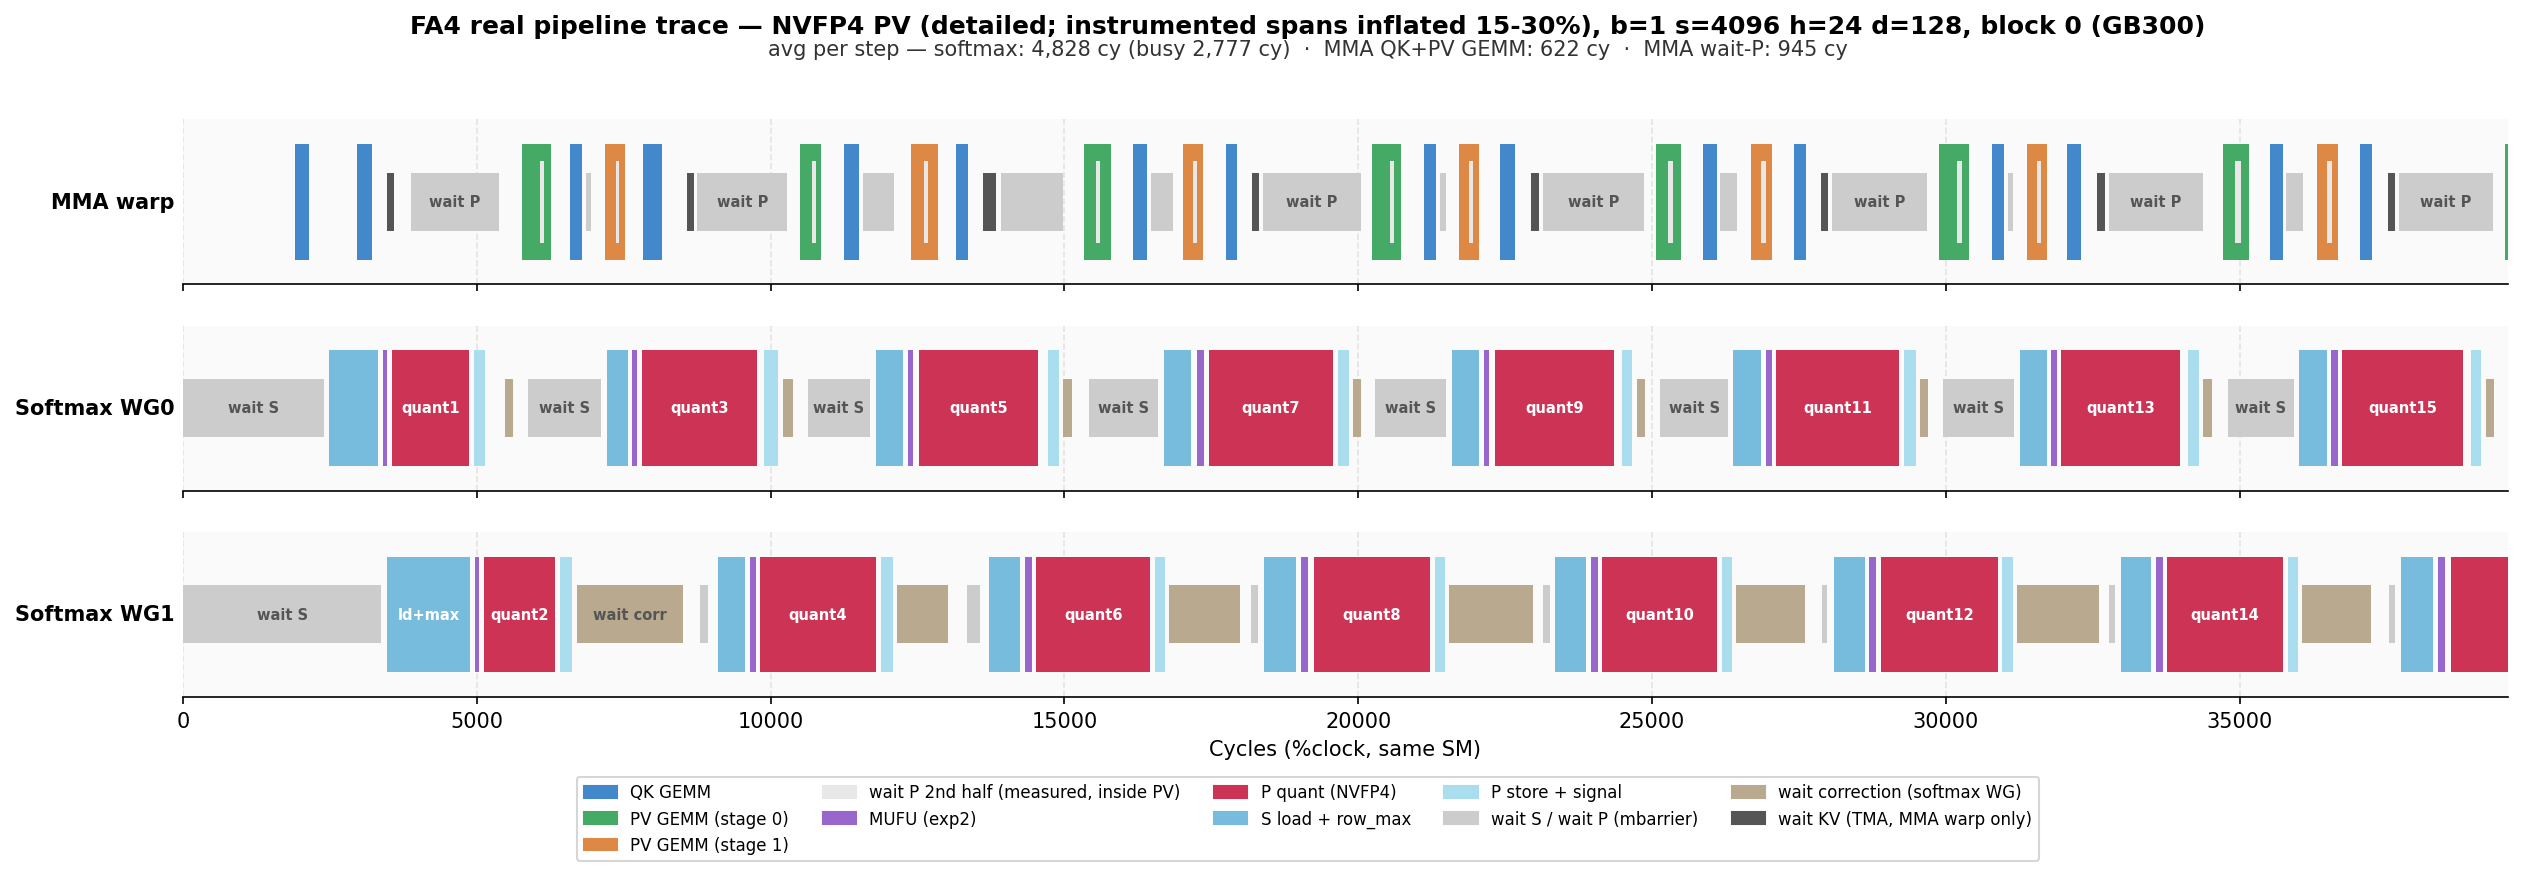
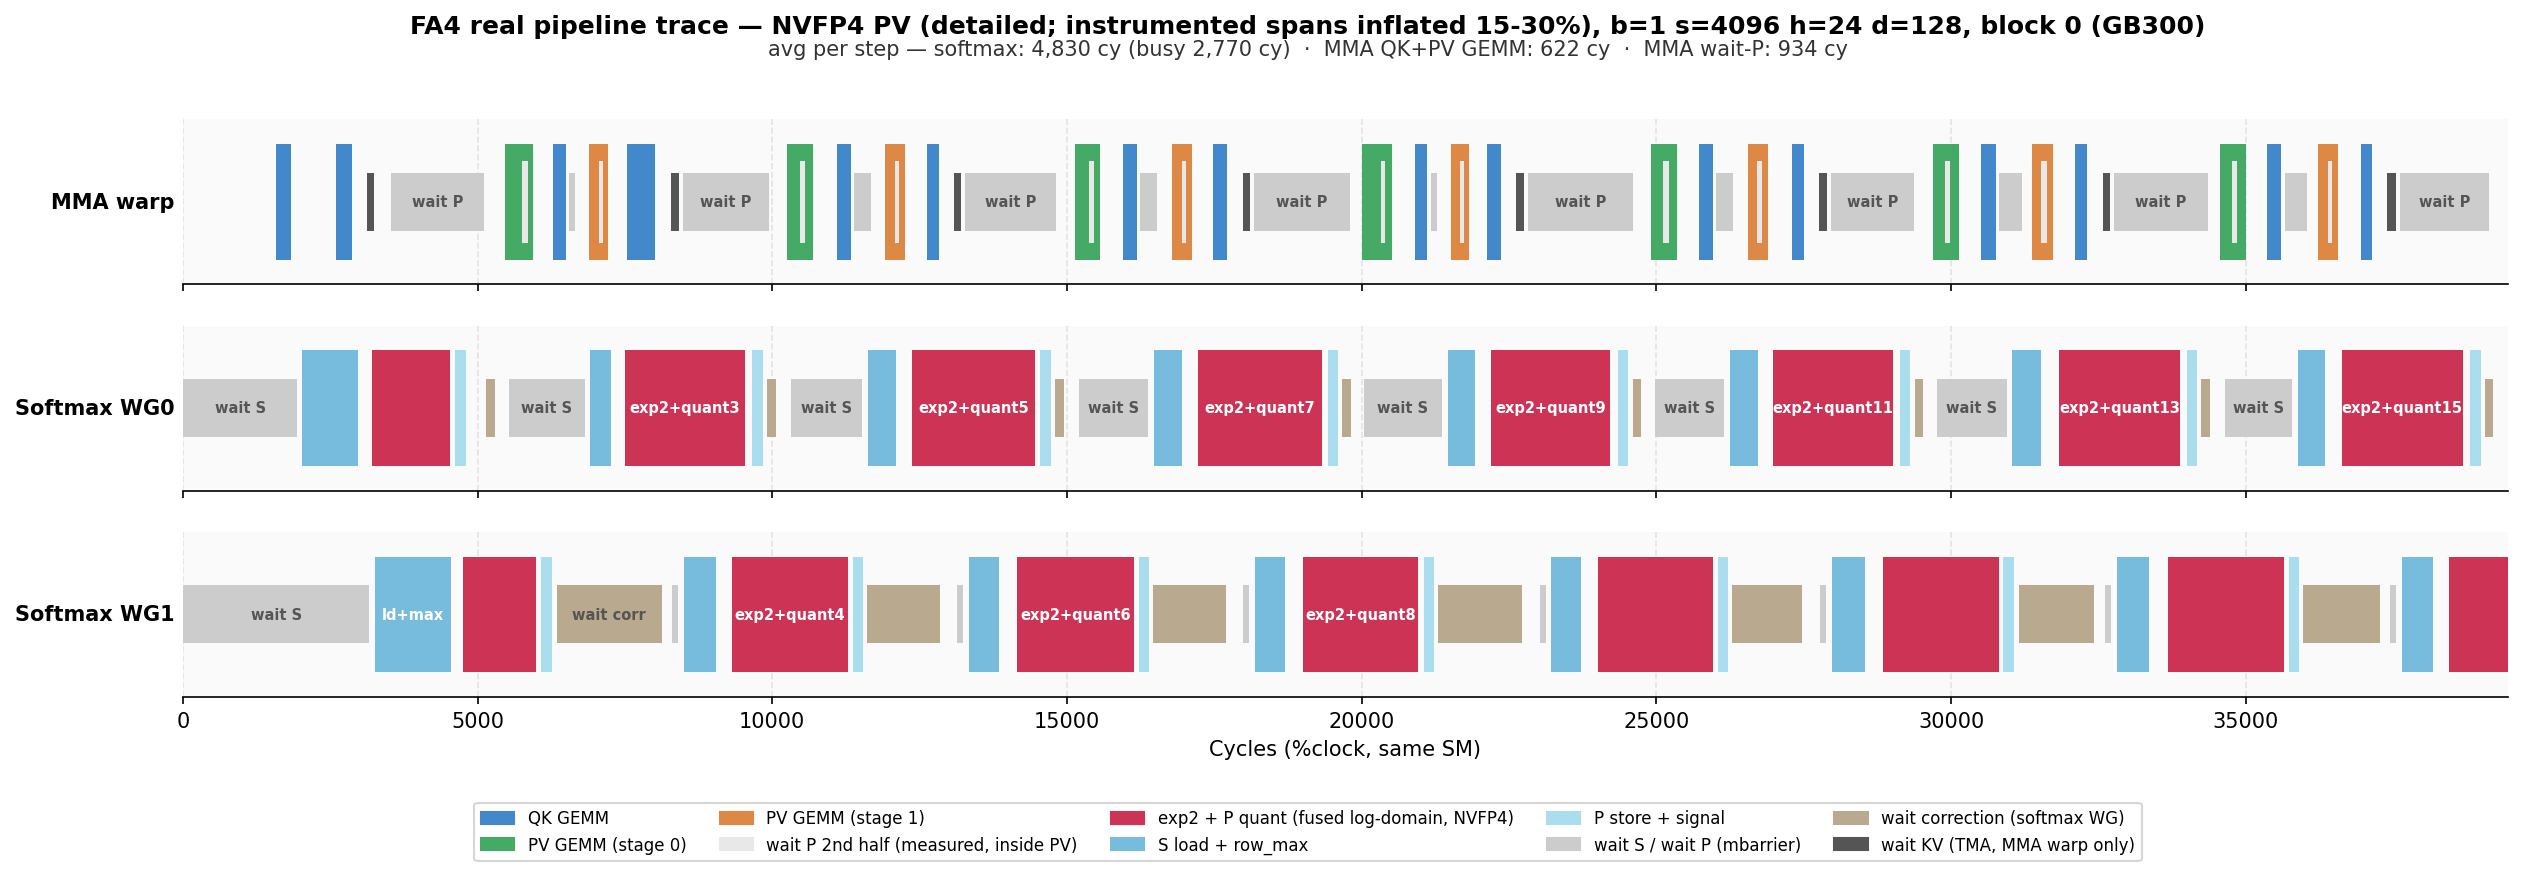
docs: fuse exp2+quant into one span for NVFP4/MXFP8 detailed traces
The log-domain path fuses exp2 into the per-group quant loop, so the
detailed EXP span was empty instrumentation noise sitting next to a quant
block that already contained the exp2 time. Drop the empty span and show
one honest "exp2 + P quant (fused log-domain)" span; note this in the doc.

diff --git a/flash_attn/cute/debug/trace_pipeline.py b/flash_attn/cute/debug/trace_pipeline.py
@@ -153,8 +153,16 @@ def render(spans_by_bg, block, output_path, title, start_iter, num_iters,
     # BF16/FP8 P conversion is a plain cast (F2FP in SASS); only FP4/MXFP8 do
     # real (group-wise) quantization (group_max + scale + E2M1/E4M3 pack).
     disp = DISPLAY_NAME.get(pv_mode, pv_mode.upper())
-    quant_label = "quant" if pv_mode in ("fp4", "mxfp8") else "F2FP"
-    quant_legend = f"P quant ({disp})" if pv_mode in ("fp4", "mxfp8") else "P cast (F2FP)"
+    # FP4/MXFP8 default to the log-domain path where exp2 is FUSED into the
+    # per-group quant loop — there is no separable exp2 phase, so the EXP
+    # span is ~empty and the red span covers exp2 + group quant together.
+    fused_exp_quant = pv_mode in ("fp4", "mxfp8")
+    quant_label = "exp2+quant" if fused_exp_quant else "F2FP"
+    quant_legend = (
+        f"exp2 + P quant (fused log-domain, {disp})"
+        if fused_exp_quant
+        else "P cast (F2FP)"
+    )
     # Coarse traces (default) have no per-phase events: EVT_SOFTMAX_EXP is one
     # combined compute span. Detect by the absence of ROWMAX spans.
     detail = any(
@@ -197,6 +205,11 @@ def render(spans_by_bg, block, output_path, title, start_iter, num_iters,
             evt = s["event_idx"]
             # Count every span (even outside the window) so indices stay global.
             counters[evt] = counters.get(evt, 0) + 1
+            # Log-domain FP4/MXFP8: exp2 is fused into the quant loop, so the
+            # detailed EXP span is empty instrumentation noise — drop it and
+            # let the combined "exp2+quant" span stand alone.
+            if detail and fused_exp_quant and evt == fa4_prof.EVT_SOFTMAX_EXP:
+                continue
             if grp == fa4_prof.GRP_MMA:
                 if evt == fa4_prof.EVT_PV_GEMM:
                     pv_idx += 1
@@ -271,11 +284,19 @@ def render(spans_by_bg, block, output_path, title, start_iter, num_iters,
     )
 
     if detail:
-        sm_legend = [
-            mpatches.Patch(color="#9966CC", label="MUFU (exp2)" if pv_mode in ("fp4", "mxfp8") else "MUFU (exp2, fused cast)"),
-            mpatches.Patch(color="#CC3355", label=quant_legend),
-            mpatches.Patch(color="#77BBDD", label="S load + row_max"),
-        ]
+        if fused_exp_quant:
+            # exp2 is fused into the per-group quant loop; the EXP span is
+            # empty noise and is not drawn — show one combined span.
+            sm_legend = [
+                mpatches.Patch(color="#CC3355", label=quant_legend),
+                mpatches.Patch(color="#77BBDD", label="S load + row_max"),
+            ]
+        else:
+            sm_legend = [
+                mpatches.Patch(color="#9966CC", label="MUFU (exp2, fused cast)"),
+                mpatches.Patch(color="#CC3355", label=quant_legend),
+                mpatches.Patch(color="#77BBDD", label="S load + row_max"),
+            ]
     else:
         sm_legend = [
             mpatches.Patch(color="#9966CC",

diff --git a/flash_attn/cute/debug/b300_fp4_pv_analysis.md b/flash_attn/cute/debug/b300_fp4_pv_analysis.md
@@ -107,13 +107,17 @@ Two granularities:
   already side-effect ordered — no timestamps inside the compute stream, so
   per-step numbers stay close to the clean kernel. One combined
   "softmax compute" span per step.
-- **Detailed (`FA4_PROFILE_DETAIL=1`)**: per-phase load/exp/quant spans —
-  this is where the group-wise P quant (red) is broken out from the exp2
-  (`figures/pipeline_trace_{mode}_pv_detailed.png`). **Each phase
-  boundary's side-effecting `%clock` asm blocks ptxas from interleaving
-  across it**, inflating spans 15-30% and shifting where waits land. Use
-  for relative phase proportions only; never tune from detailed or
-  instrumented runs alone — verify on clean kernels (and SASS).
+- **Detailed (`FA4_PROFILE_DETAIL=1`)**: per-phase load/exp/quant spans
+  (`figures/pipeline_trace_{mode}_pv_detailed.png`). For BF16/FP8 the exp2
+  and the P cast are separable phases. For **NVFP4/MXFP8 the exp2 is fused
+  into the per-group quant loop** (log-domain path: fma → exp2 → pack per
+  group), so there is no separable exp2 phase — the figure shows one
+  combined **exp2 + P quant** span (red), not an empty MUFU sliver next to
+  a quant block. **Each phase boundary's side-effecting `%clock` asm blocks
+  ptxas from interleaving across it**, inflating spans 15-30% and shifting
+  where waits land. Use for relative phase proportions only; never tune
+  from detailed or instrumented runs alone — verify on clean kernels (and
+  SASS).
 
 Metric definitions (`trace_pipeline.py:step_stats`): one softmax **step**
 is one KV iteration = `wait S` → compute (S load + row_max + exp2 + P
